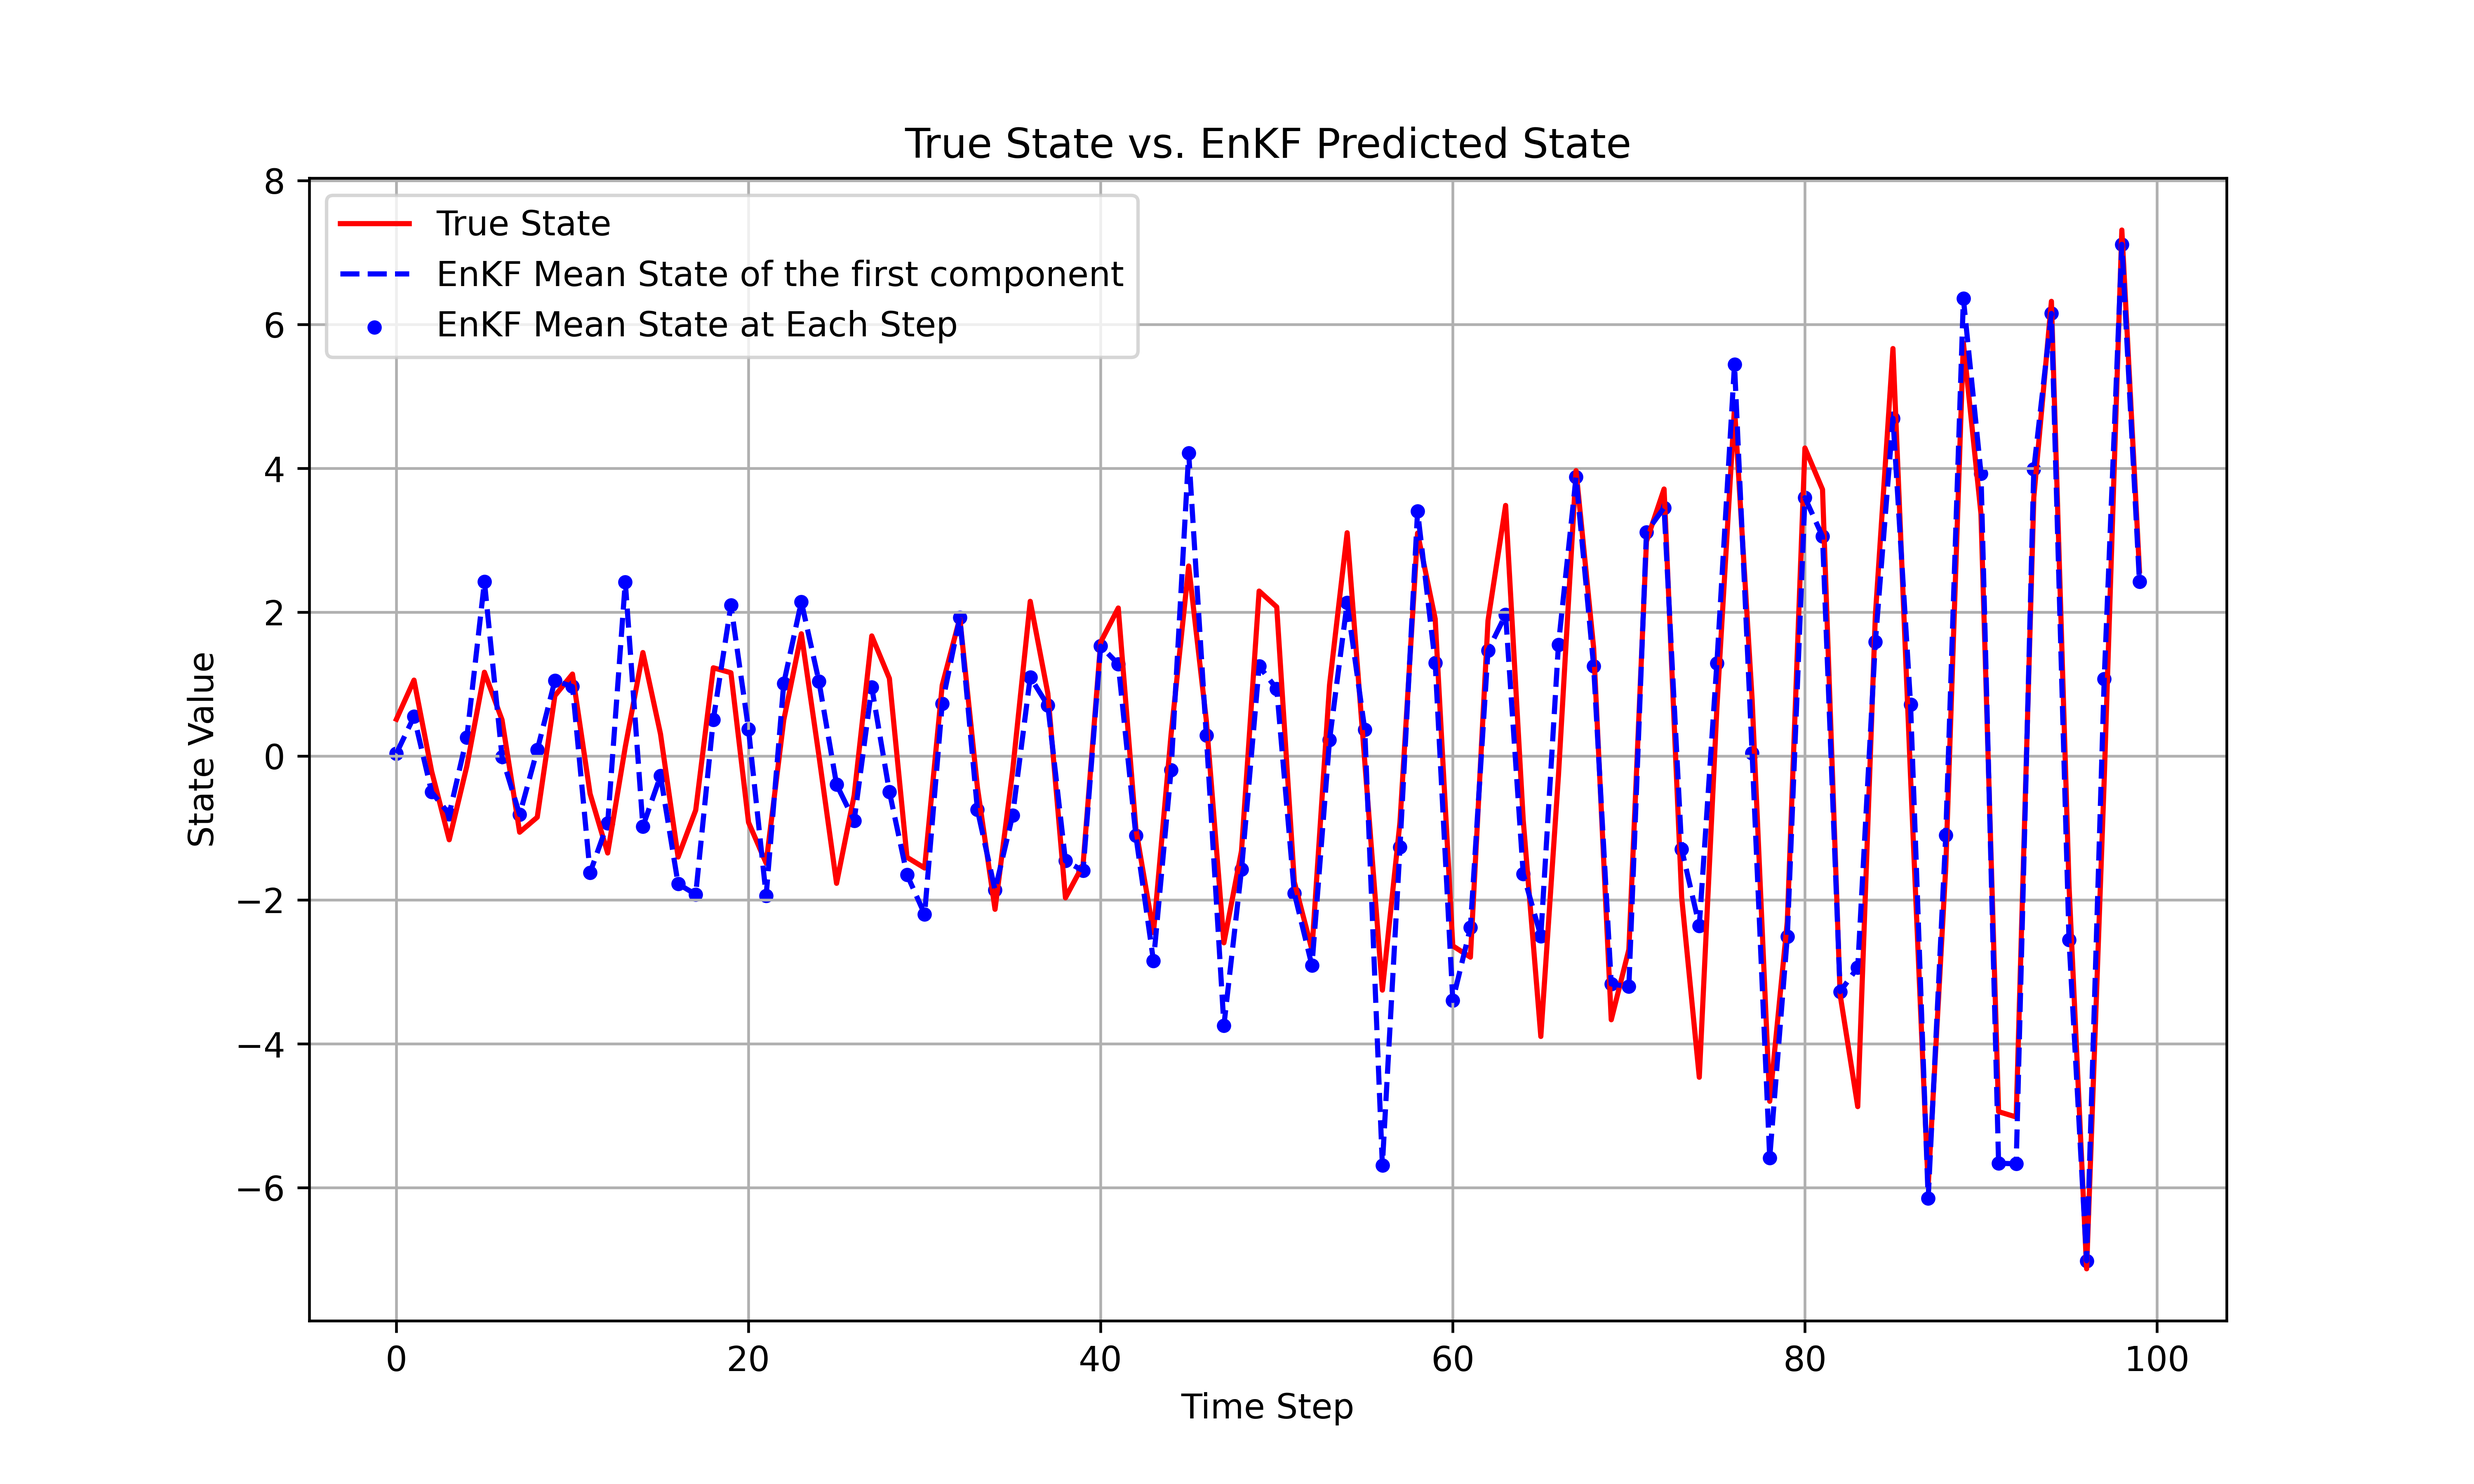
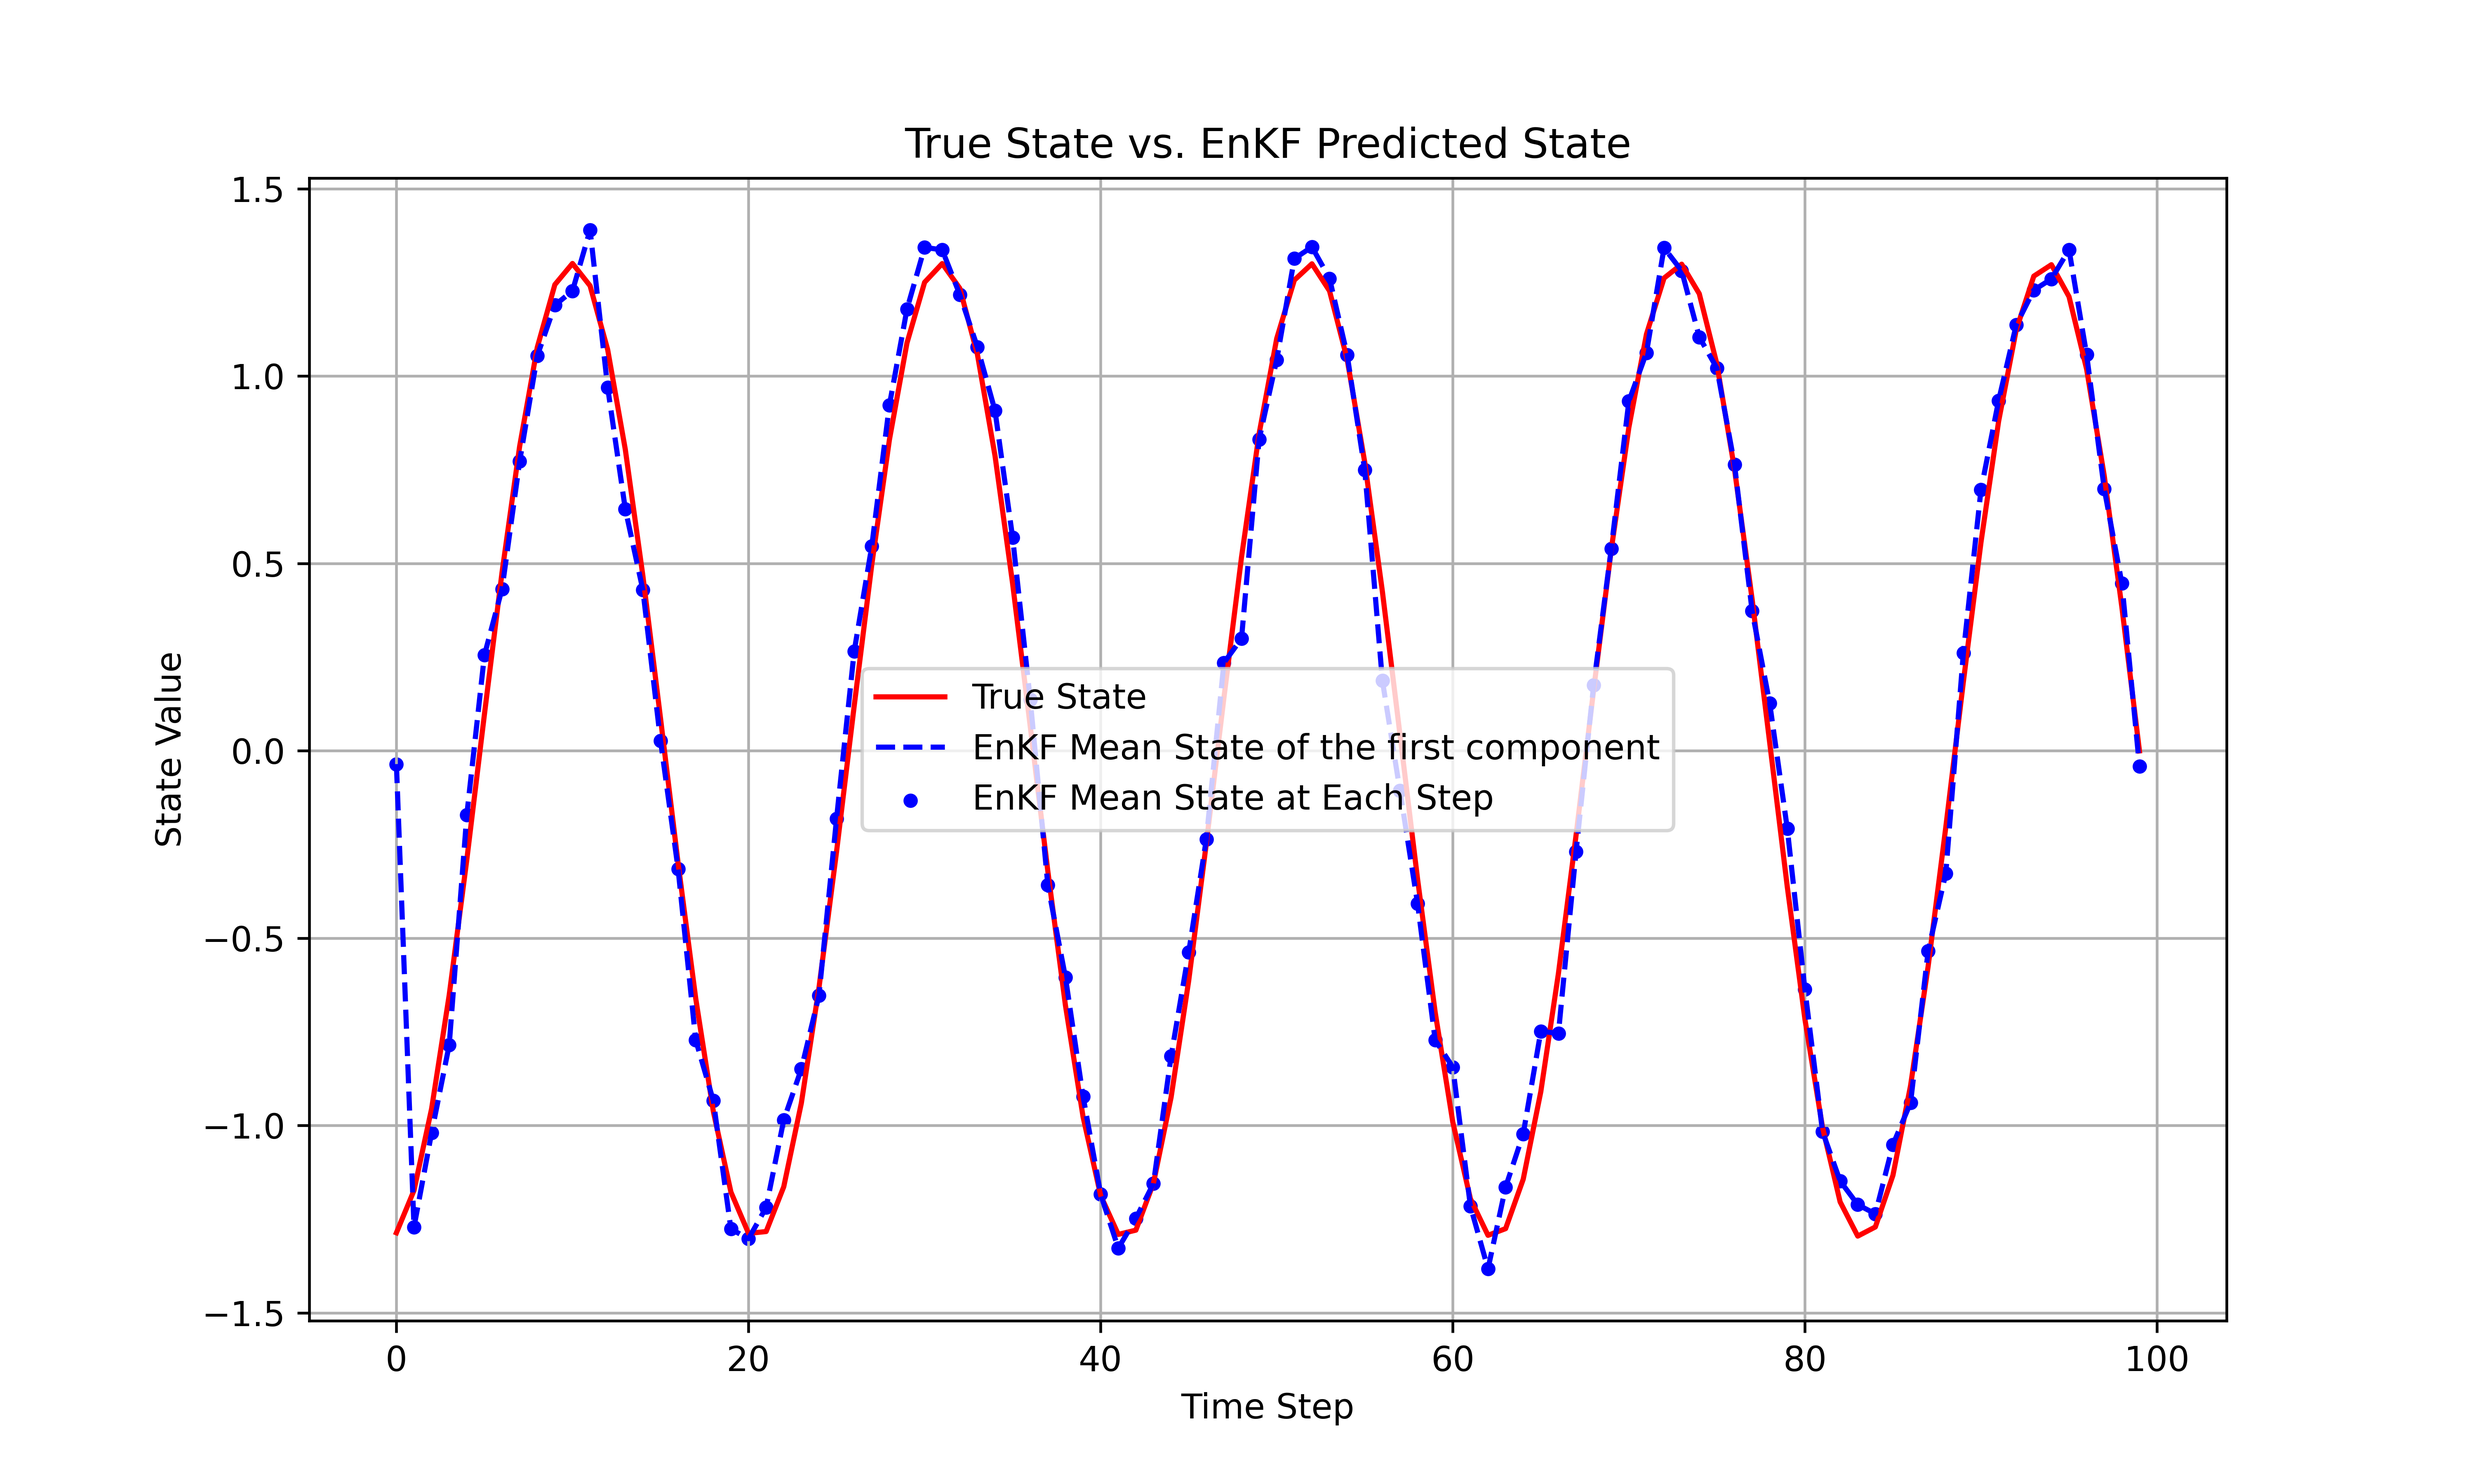
made A orthogonal

diff --git a/Kalman/Kalman.m b/Kalman/Kalman.m
@@ -1,0 +1,77 @@
+% M126 Winter 2020, Data-driven UQ
+% by Yoonsang Lee (yoonsang.lee@dartmouth.edu)
+%
+% Lecture 17: Kalman Filter
+%
+% Kalman filtering for discrete 2x2 linear systems
+%
+% Note: this code is not optimized,
+%       for example, this code uses inv()
+%       Do not use this code for heavy applications
+%       Teaching purpose only
+%
+% Last update: Feb 21, 2020
+rng(1) % seed for random number generator
+
+theta=.3; % rotation angle
+A=[cos(theta),-sin(theta);sin(theta),cos(theta)]; % transition(rotatino) matrix
+
+u0=[5;0]; % initial value for u
+
+k=100; % total time to solve for u
+
+u=zeros(2,k); % memory for u; true value
+v=zeros(2,k); % memory for v; observation
+
+
+u(:,1)=u0; v(:,1)=u0;
+
+
+sigma=.1; % noise level
+sigma0=2; % observation noise level
+
+C=[sigma0^2,0;0,sigma0^2];
+H=[1,0;0,1];
+
+% Generate the true values and observations
+for i = 1:k-1
+    u(:,i+1) = A*u(:,i)+sigma*randn(2,1);
+    v(:,i+1) = H*u(:,i+1)+sigma0*randn(2,1);
+    
+    if(i<15)
+        figure(1)
+        plt_soln(u,v,i);
+        drawnow();
+        input('press any keys >>')
+    end
+end
+
+figure(1)
+plt_soln(u,v,k);
+input('press any keys to use Kalman Filter >>')
+
+%% Kalman Filtering; observation v is given in the previous part.
+% find the posterior estimate of u, uest
+uest=zeros(2,k); % posterior mean of u, i.e., estimate of u using the posterior distribution
+uest(:,1)=u0+[1;-1];
+
+for i = 1:k-1
+    uprior = A*uest(:,i);
+    Ctmp = A*C*A'+sigma^2*eye(2);
+    
+    K = Ctmp*H'*inv(H*Ctmp*H'+sigma0^2*eye(2));
+    
+    C = (eye(2)-K*H)*Ctmp;
+    uest(:,i+1) = uprior + K*(v(:,i+1)-H*uprior);
+    
+    if(i<30)
+        figure(2)
+        plt_filtered_soln(u,v,uest,i);
+        drawnow();
+        input('press any keys >>')
+    end
+end
+
+figure(2);
+plt_filtered_soln(u,v,uest,k);
+

diff --git a/python/main.py b/python/main.py
@@ -20,9 +20,18 @@ def true_state_evolution(initial_state, A, steps):
 state_dimension = 2
 observation_dimension = 2
 ensemble_size = 100
-A = np.array(
-    np.random.randn(state_dimension, observation_dimension)
-)  # Linear model matrix
+
+# Generate a random linear forward model A
+A = np.array(np.random.randn(state_dimension, observation_dimension))
+# Multiply transpose of A with A to ensure it is positive definite
+A = A.T @ A
+# Perform QR decomposition to get an orthogonal matrix
+A, R = np.linalg.qr(A)
+
+### Rotational matrix example
+# theta = 0.3
+# A = np.array([[np.cos(theta), -np.sin(theta)], [np.sin(theta), np.cos(theta)]])
+
 H = np.eye(state_dimension)  # Observe all state variables
 
 enkf = EnKF(
@@ -31,8 +40,8 @@ enkf = EnKF(
     observation_dimension=observation_dimension,
     forward_model=lambda x: linear_forward_model(x, A=A),
     observation_operator=H,
-    ensemble_variance=1,
-    observation_variance=1,
+    ensemble_variance=0.01,
+    observation_variance=0.01,
     initial_ensemble=np.random.randn(state_dimension, ensemble_size),
 )
 
@@ -79,6 +88,6 @@ plt.legend()
 plt.grid(True)
 
 # Save the plot
-plt.savefig("../plots/EnFK.png", dpi=600)
+plt.savefig("../plots/EnFK.png", dpi=600.0)
 
 plt.show()

diff --git a/Kalman/plt_filtered_soln.m b/Kalman/plt_filtered_soln.m
@@ -1,0 +1,43 @@
+function plt_filtered_soln(u, v, uest, ind)
+if(ind<15)
+    xmax=15;
+else
+    xmax=ind;
+end
+
+subplot(2,2,1)
+plot(1:ind,u(1,1:ind),1:ind,v(1,1:ind),'-+')
+title('Time series of u_1')
+legend('true','observation')
+ylim([-10,10])
+xlabel('time')
+ylabel('u_1')
+xlim([1 xmax])
+
+subplot(2,2,2)
+plot(1:ind,u(2,1:ind),1:ind,v(2,1:ind),'-+')
+title('Time series of u_2')
+legend('true','observation')
+ylim([-10,10])
+xlabel('time')
+ylabel('u_2')
+xlim([1 xmax])
+
+subplot(2,2,3)
+plot(1:ind,u(1,1:ind),1:ind,uest(1,1:ind),'-mo')
+title('Time series of u_1')
+legend('true','Kalman')
+ylim([-10,10])
+xlabel('time')
+ylabel('u_1')
+xlim([1 xmax])
+
+subplot(2,2,4)
+plot(1:ind,u(2,1:ind),1:ind,uest(2,1:ind),'-mo')
+title('Time series of u_2')
+legend('true','Kalman')
+ylim([-10,10])
+xlabel('time')
+ylabel('u_2')
+xlim([1 xmax])
+end

diff --git a/Kalman/plt_soln.m b/Kalman/plt_soln.m
@@ -1,0 +1,38 @@
+function plt_soln(u, v, ind)
+if(ind<15)
+    xmax=15;
+else
+    xmax=ind;
+end
+subplot(2,2,1)
+plot(u(1,1:ind),u(2,1:ind),'-d')
+title('Trajectory of true values')
+xlim([-10,10])
+ylim([-10,10])
+
+subplot(2,2,2)
+plot(v(1,1:ind),v(2,1:ind),'-d')
+title('Trajectory of observation')
+xlim([-10,10])
+ylim([-10,10])
+
+subplot(2,2,3)
+plot(1:ind,u(1,1:ind),1:ind,v(1,1:ind),'-+')
+title('Time series of u_1')
+legend('true','observation')
+ylim([-10,10])
+xlabel('time')
+ylabel('u_1')
+ylim([-10,10])
+xlim([1 xmax])
+
+subplot(2,2,4)
+plot(1:ind,u(2,1:ind),1:ind,v(2,1:ind),'-+')
+title('Time series of u_2')
+legend('true','observation')
+ylim([-10,10])
+xlabel('time')
+ylabel('u_2')
+ylim([-10,10])
+xlim([1 xmax])
+end
